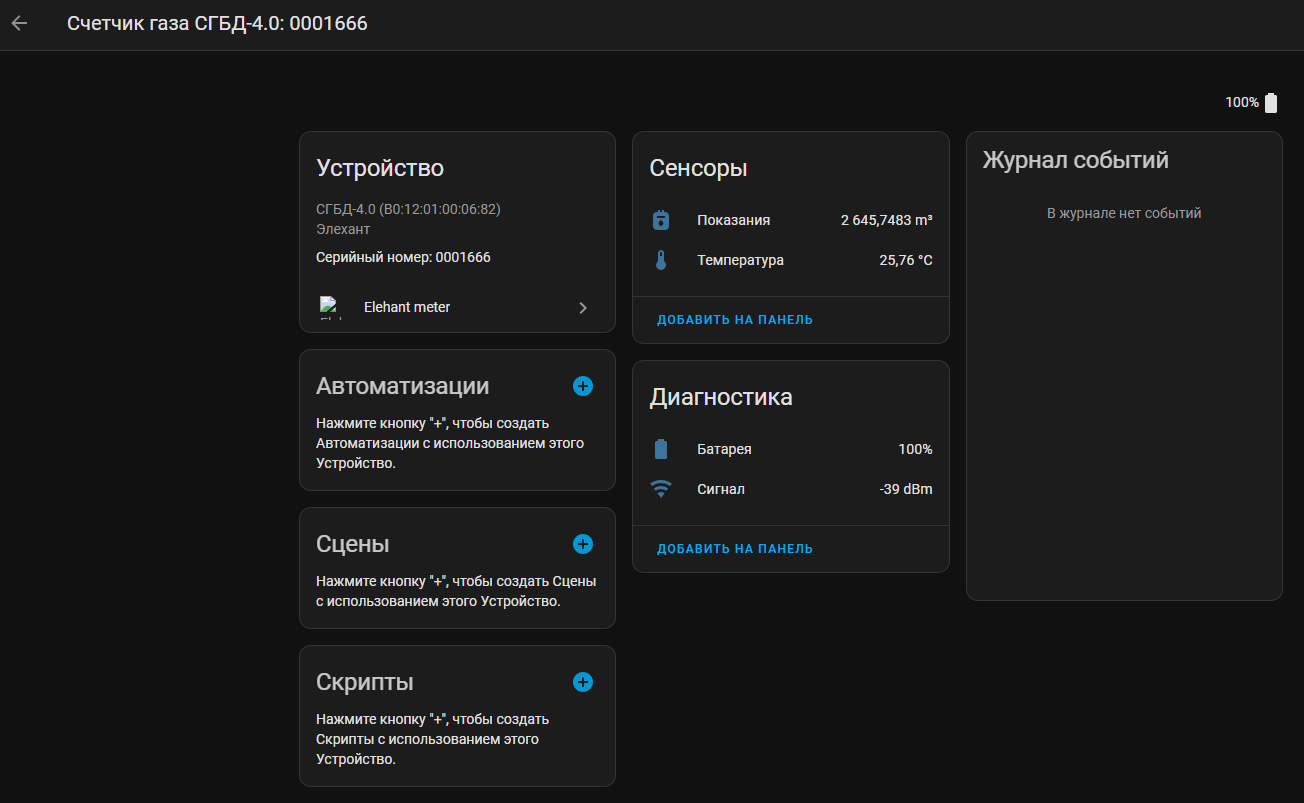
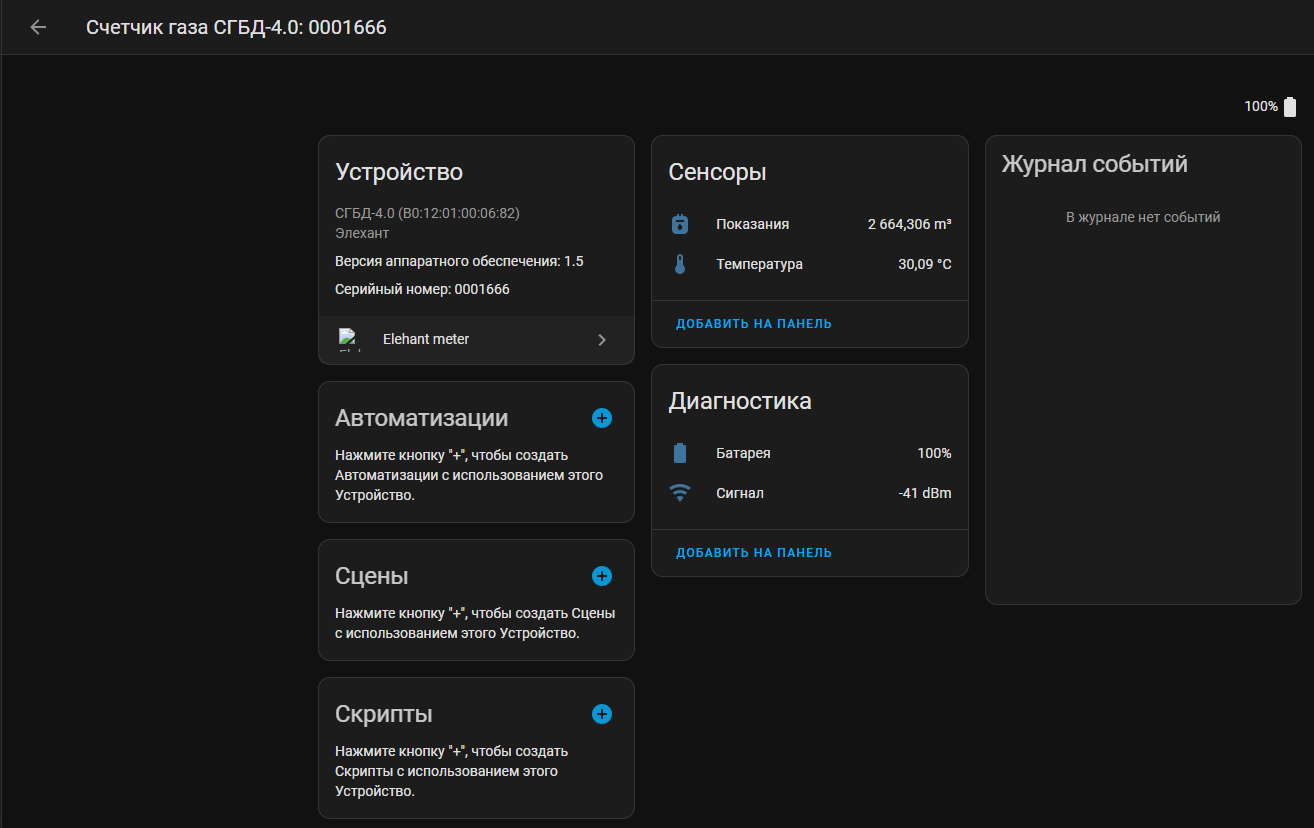
B1 add data

diff --git a/custom_components/elehant_meter/const.py b/custom_components/elehant_meter/const.py
@@ -7,6 +7,7 @@ from typing import List, NamedTuple
 from bleak.backends.device import BLEDevice
 import logging
 
+import json
 
 DOMAIN = "elehant_meter"
 _LOGGER = logging.getLogger(__name__)
@@ -97,6 +98,8 @@ class ElehantData:
     mtype: int = None
     model: int = None
     name_model: str = None
+    frimware: str = None
+    packetVer: int = None
 
     macdata: MacData = None
 
@@ -114,21 +117,20 @@ class ElehantData:
                 self.macdata.signValid = False
 
                 raw_bytes = ad_data.manufacturer_data[MANUFACTURER_ID]
-                check_ff = int.from_bytes(raw_bytes[3:4], byteorder="little")
+                packetVer = int.from_bytes(raw_bytes[3:4], byteorder="little")
+                
+                _LOGGER.debug("Версия пакета: %s", packetVer)
 
-                if has_manufacurer_data and check_ff == 1:
+                if has_manufacurer_data and packetVer == 1:
                     v_num = int.from_bytes(raw_bytes[6:9], byteorder='little')
-                    v_count = int.from_bytes(
-                        raw_bytes[9:13], byteorder='little')
-                    v_temp = int.from_bytes(
-                        raw_bytes[14:16], byteorder="little")
-                    v_battery = int.from_bytes(
-                        raw_bytes[13:14], byteorder="little")
-
-                    v_mtype = int.from_bytes(
-                        raw_bytes[4:5], byteorder="little")
-                    v_model = int.from_bytes(
-                        raw_bytes[5:6], byteorder="little")
+                    v_count = int.from_bytes(raw_bytes[9:13], byteorder='little')
+                    v_temp = int.from_bytes(raw_bytes[14:16], byteorder="little")
+                    v_battery = int.from_bytes(raw_bytes[13:14], byteorder="little")
+                    
+                    v_mtype = int.from_bytes(raw_bytes[4:5], byteorder="little")
+                    v_model = int.from_bytes(raw_bytes[5:6], byteorder="little")
+                    
+                    v_fw = int.from_bytes(raw_bytes[16:17], byteorder="little")
 
                     if v_mtype == self.macdata.mtype and v_model == self.macdata.model:
 
@@ -159,9 +161,11 @@ class ElehantData:
                         self.battery = v_battery
                         self.mtype = v_mtype
                         self.model = v_model
+                        self.frimware = v_fw/10
                         self.rssi = ad_data.rssi
 
                         self.macdata.signValid = True
+
 
                         _LOGGER.debug("Имя устройства: %s", self.name)
                         _LOGGER.debug("MAC: %s", mac)
@@ -170,18 +174,20 @@ class ElehantData:
                         _LOGGER.debug("Показания: %s", self.meter_reading)
                         _LOGGER.debug("Темперетара: %s", self.temperature)
                         _LOGGER.debug("Батарея: %s", self.battery)
+                        _LOGGER.debug("Сигнал: %s", self.rssi)
+
                         _LOGGER.debug("Тип мас: %s", self.mtype)
                         _LOGGER.debug("Модель мас: %s", self.model)
-                        _LOGGER.debug("Сигнал: %s", self.rssi)
+                        _LOGGER.debug("Версия прошивки: %s", self.frimware)
 
                 else:
                     self.macdata.signValid = False
                     _LOGGER.debug(
-                        "ElehantData init - не пройдена проверка по производителю и контрольному биту MAC %s", mac)
+                        "ElehantData init - не пройдена проверка по производителю или версии пакета MAC %s", mac)
         else:
             self.macdata.signValid = False
             _LOGGER.debug(
-                "ElehantData init - не пройдена device или ad_data пустые")
+                "ElehantData init - не пройдена, device или ad_data пустые")
 
 
 def parse_mac(in_mac) -> MacData:
@@ -197,8 +203,12 @@ def parse_mac(in_mac) -> MacData:
         if (result.mtype == MeterType.GAS and result.model in MeterModel[MeterType.GAS]) or (result.mtype == MeterType.WATER and result.model in MeterModel[MeterType.WATER]):
             result.signValid = True
     else:
-        _LOGGER.debug(
-            "parse_mac Устройство не Елехант только (B0), результат: %s", mac[0:2])
+        if mac[0:2] == "b1":
+            _LOGGER.debug(
+                "parse_mac Устройство Елехант (B1). Данные не расшифрованны, игнорирование, результат: %s", mac[0:2])
+        else:
+            _LOGGER.debug(
+                "parse_mac Устройство не Елехант только (B0 или В1) , результат: %s", mac[0:2])
 
     _LOGGER.debug("parse_mac signValid: %s", result.signValid)
     return result

diff --git a/custom_components/elehant_meter/config_flow.py b/custom_components/elehant_meter/config_flow.py
@@ -5,6 +5,7 @@ import logging
 from typing import Any
 
 from .const import ElehantData
+from .const import MANUFACTURER_ID
 import voluptuous as vol
 
 from homeassistant import config_entries
@@ -35,15 +36,21 @@ class ConfigFlow(config_entries.ConfigFlow, domain=DOMAIN):
         """Handle the Bluetooth discovery step."""
 
         _LOGGER.debug("Обнаружено устройство BT: %s", discovery_info)
+        _LOGGER.debug("Данные в HEX: %s", discovery_info.manufacturer_data[MANUFACTURER_ID].hex().upper())
 
         await self.async_set_unique_id(discovery_info.address)
         self._abort_if_unique_id_configured()
         adv = ElehantData(discovery_info.device, discovery_info.advertisement)
+        
+        if not adv.macdata.signValid:
+            _LOGGER.debug("Обнаружено неподдерживаемое устройство: %s", discovery_info)
+            return self.async_abort(reason="not_supported")
 
         self._discovery_info = discovery_info
 
         self._discovered_device = adv
         return await self.async_step_bluetooth_confirm()
+            
 
     async def async_step_bluetooth_confirm(
         self, user_input: dict[str, Any] | None = None
@@ -52,20 +59,24 @@ class ConfigFlow(config_entries.ConfigFlow, domain=DOMAIN):
         assert self._discovered_device is not None
         adv = self._discovered_device
 
-        title = adv.name
-        assert title is not None, "Ошибка: Пустой заголовок"
+        _LOGGER.debug("async_step_bluetooth_confirm: %s", adv)
 
-        if user_input is not None:
-            return self.async_create_entry(title=title, data={})
+        if adv.macdata.signValid:
+            title = adv.name
+            assert title is not None, "Ошибка: Пустой заголовок"
 
-        assert title is not None
+            if user_input is not None:
+                return self.async_create_entry(title=title, data={})
 
-        self._set_confirm_only()
-        placeholders = {"name": title}
-        self.context["title_placeholders"] = placeholders
-        return self.async_show_form(
-            step_id="bluetooth_confirm", description_placeholders=placeholders
-        )
+            self._set_confirm_only()
+            placeholders = {"name": title}
+            self.context["title_placeholders"] = placeholders
+            return self.async_show_form(
+                step_id="bluetooth_confirm", description_placeholders=placeholders)
+                
+        else:
+            _LOGGER.debug("Confirm discovery - не пройден: %s", adv)
+            return self.async_abort(reason="not_supported")
 
     async def async_step_user(
         self, user_input: dict[str, Any] | None = None

diff --git a/custom_components/elehant_meter/__init__.py b/custom_components/elehant_meter/__init__.py
@@ -44,7 +44,7 @@ async def async_setup_entry(hass: HomeAssistant, entry: ConfigEntry) -> bool:
     await hass.config_entries.async_forward_entry_setups(entry, PLATFORMS)
     entry.async_on_unload(
         coordinator.async_start()
-    )  # only start after all platforms have had a chance to subscribe
+    ) 
     return True
 
 

diff --git a/custom_components/elehant_meter/sensor.py b/custom_components/elehant_meter/sensor.py
@@ -144,6 +144,7 @@ def _sensor_device_info_to_hass(
         serial_number=adv.id_meter,
         model_id=adv.device.address,
         model = adv.name_model,
+        hw_version=adv.frimware,
         manufacturer = "Элехант"
     )
 

diff --git a/README.md b/README.md
@@ -15,7 +15,7 @@
 * СГБ-6.0
 * СГБ-1.6
 * СГБД-1.8
-* СГБД-3.2
+* СГБД-3.2 - работает
 * СГБД-4.0
 * СГБД-6.0
 * СГБД-1.6
@@ -52,13 +52,8 @@
 
 ## Установка
 ### В ручную
-1. Скопируйте папку **elehant_meter** в **custom_components** в корне конфигурации Home Assistant
-2. В **configuration.yaml** добавьте следующие строки:
+Скопируйте папку **elehant_meter** в **custom_components** в корне конфигурации Home Assistant
 
-    ```yaml
-    sensor:
-      - platform: elehant_meter
-        
     ```
 ### Через HACS (в работе)
 ```HACS > Интеграции > 3 точки (правый верхний угол) > Пользовательские репозитории > Вводим: Zud71/elehant_meter, Категория: Интеграция > Добавить > подождать > elehant_meter > Установить```
